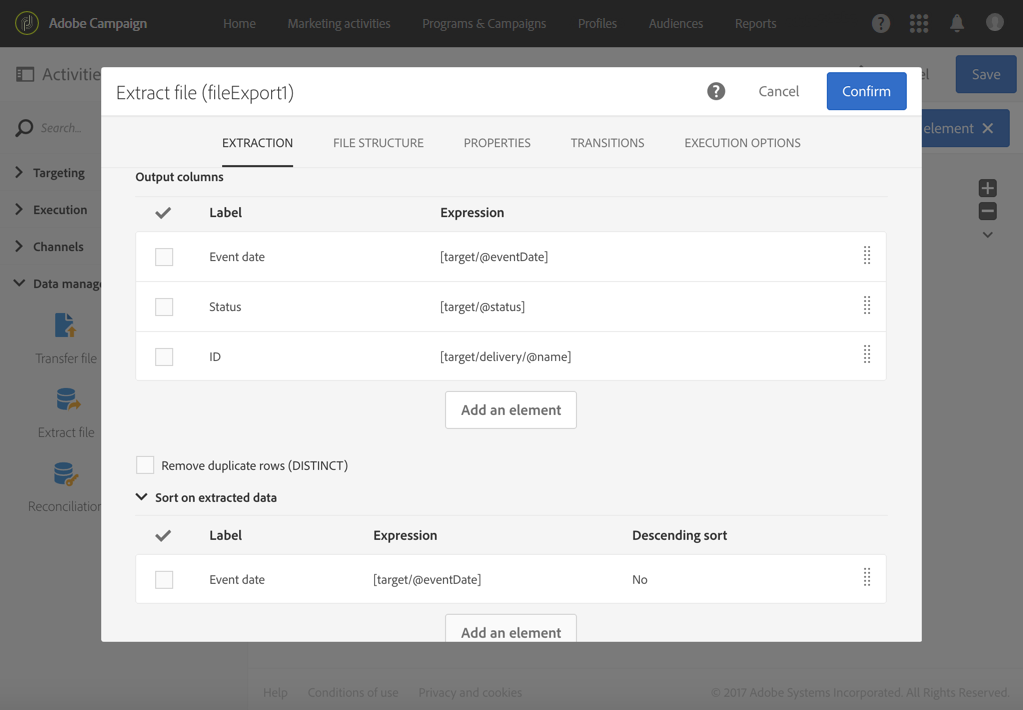
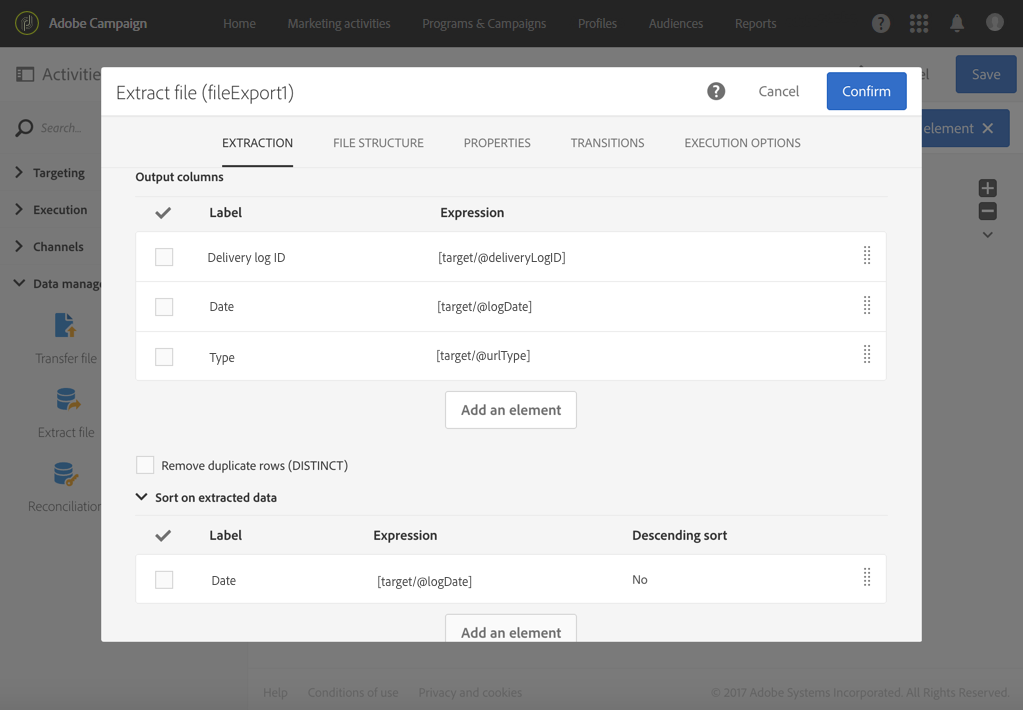
DOCAC-4695

diff --git a/help/automating/using/exporting-logs.md b/help/automating/using/exporting-logs.md
@@ -45,15 +45,17 @@ The export logs operation can be carried out by standard users. Private resource
 
 1. Add an **[!UICONTROL Extract file]** activity that will export the queried data in a file:
 
-    * In the **[!UICONTROL Extraction]** tab, specify the name of the file. This name will be automatically completed with the date of the export to ensure all extracted files are unique.
-
-      Select the columns that you want to export in your file. You can select here data coming from related resources such as delivery or profile information. To organize the final file, you can apply a sort. For example on the log date, as shown in the example below.
+    * In the **[!UICONTROL Extraction]** tab, specify the name of the file.
     
-      ![](assets/export_logs_extractfile_extraction.png)
+      If you select the **[!UICONTROL Add date and time to the file name]** option, this name will be automatically completed with the date of the export to ensure all extracted files are unique. Select the columns that you want to export in your file. You can select here data coming from related resources such as delivery or profile information.
 
       >[!NOTE]
       >
-      >It is not possible to export unique identifiers (primary keys) of log resources.
+      >To export a unique identifier for each log, select the **[!UICONTROL Delivery log ID]** element.
+      
+      To organize the final file, you can apply a sort. For example on the log date, as shown in the example below.
+    
+      ![](assets/export_logs_extractfile_extraction.png)
 
     * In the **[!UICONTROL File structure]** tab, define the format of the output file to match your needs.
 

diff --git a/help/rn/using/documentation-updates.md b/help/rn/using/documentation-updates.md
@@ -36,6 +36,8 @@ The Adobe Campaign Enhanced MTA documentation is now available. [Read More](http
 
 Notes have been added to indicate that the application server and mirror page server URLs must be secure for the landing page and mirror page previews to be displayed from the Campaign user interface. [Read more](../../administration/using/branding.md#configuring-and-using-brands)
 
+The Exporting logs section has been updated to reflect the availability of the Delivery log ID in the Delivery logs and Tracking logs resources, which enables to export a unique identifier for each log. [Read more](../../automating/using/exporting-logs.md)
+
 ## Documentation updates - January 2020 {#doc-updates-january-2020}
 
 The Deliverability documentation has been updated with a new section on IP Certification. [Read more](../../sending/using/ip-certification.md)
